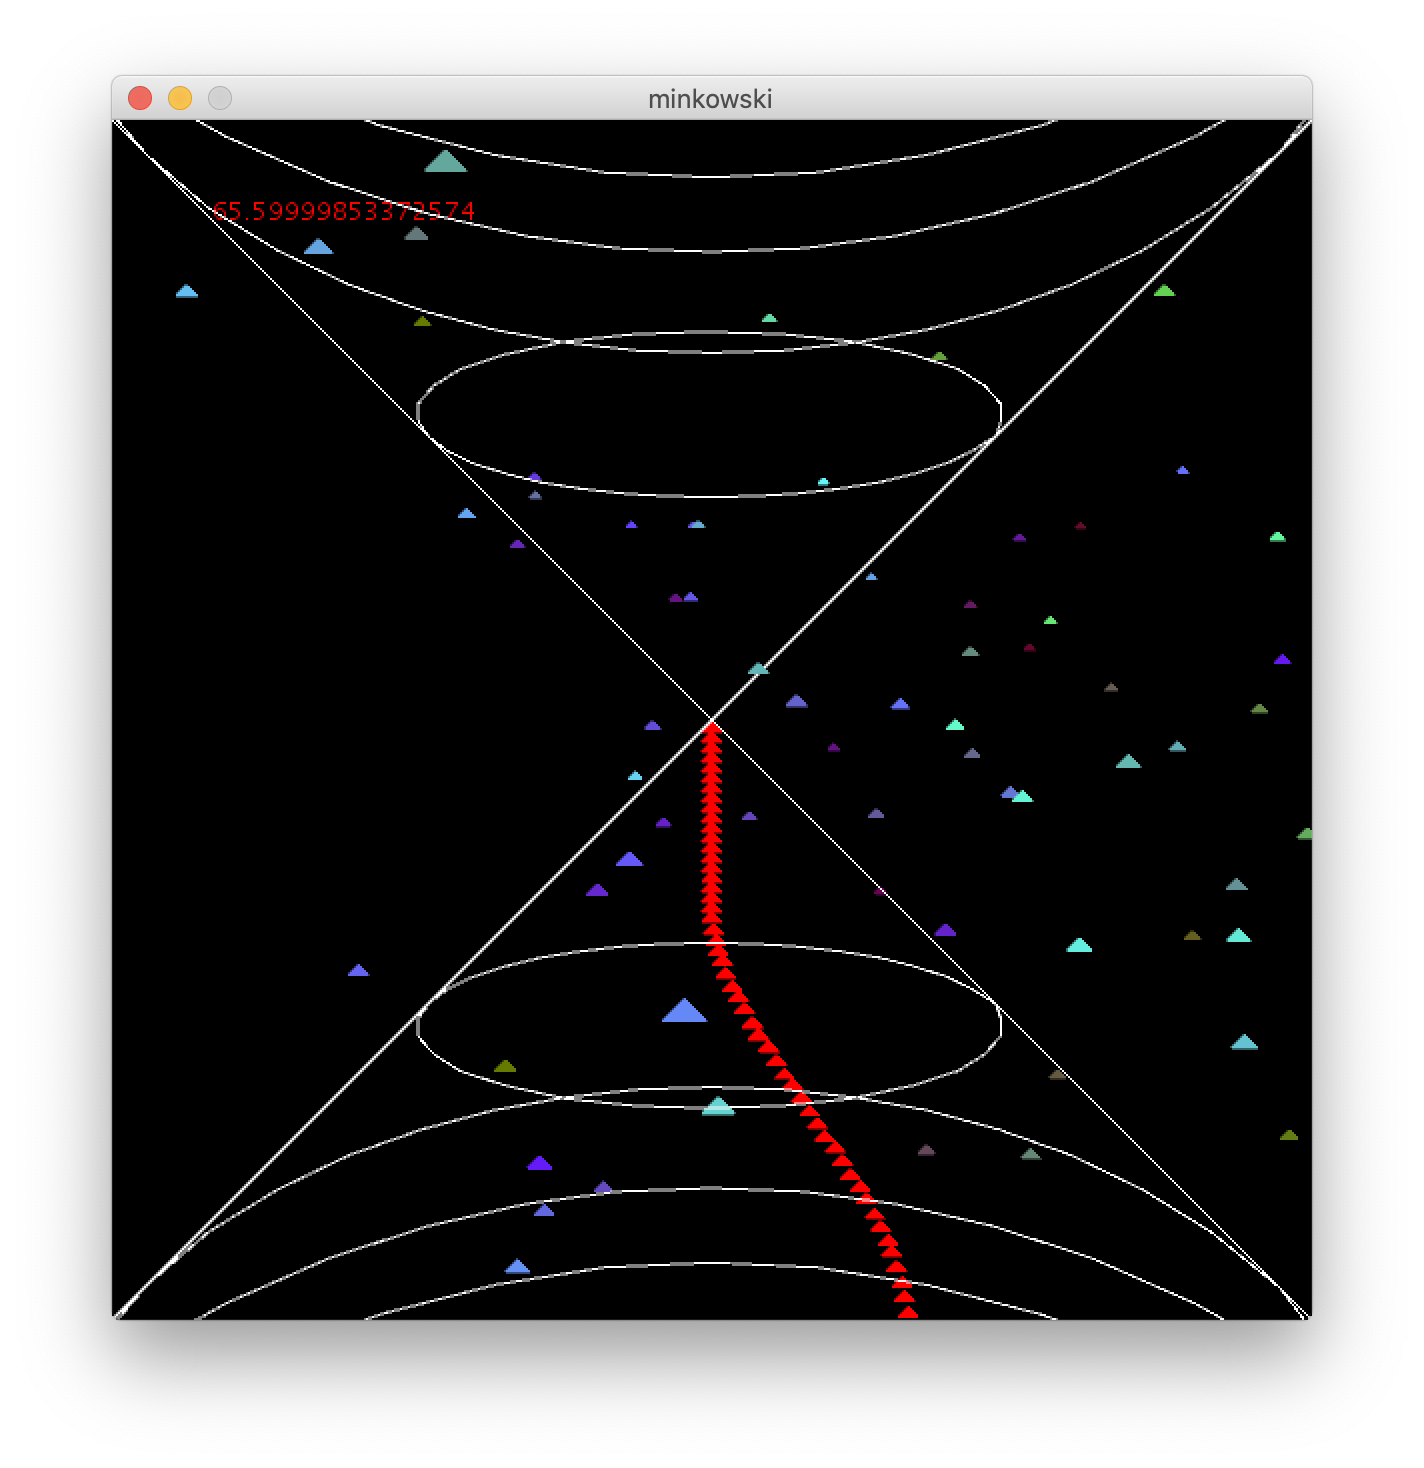
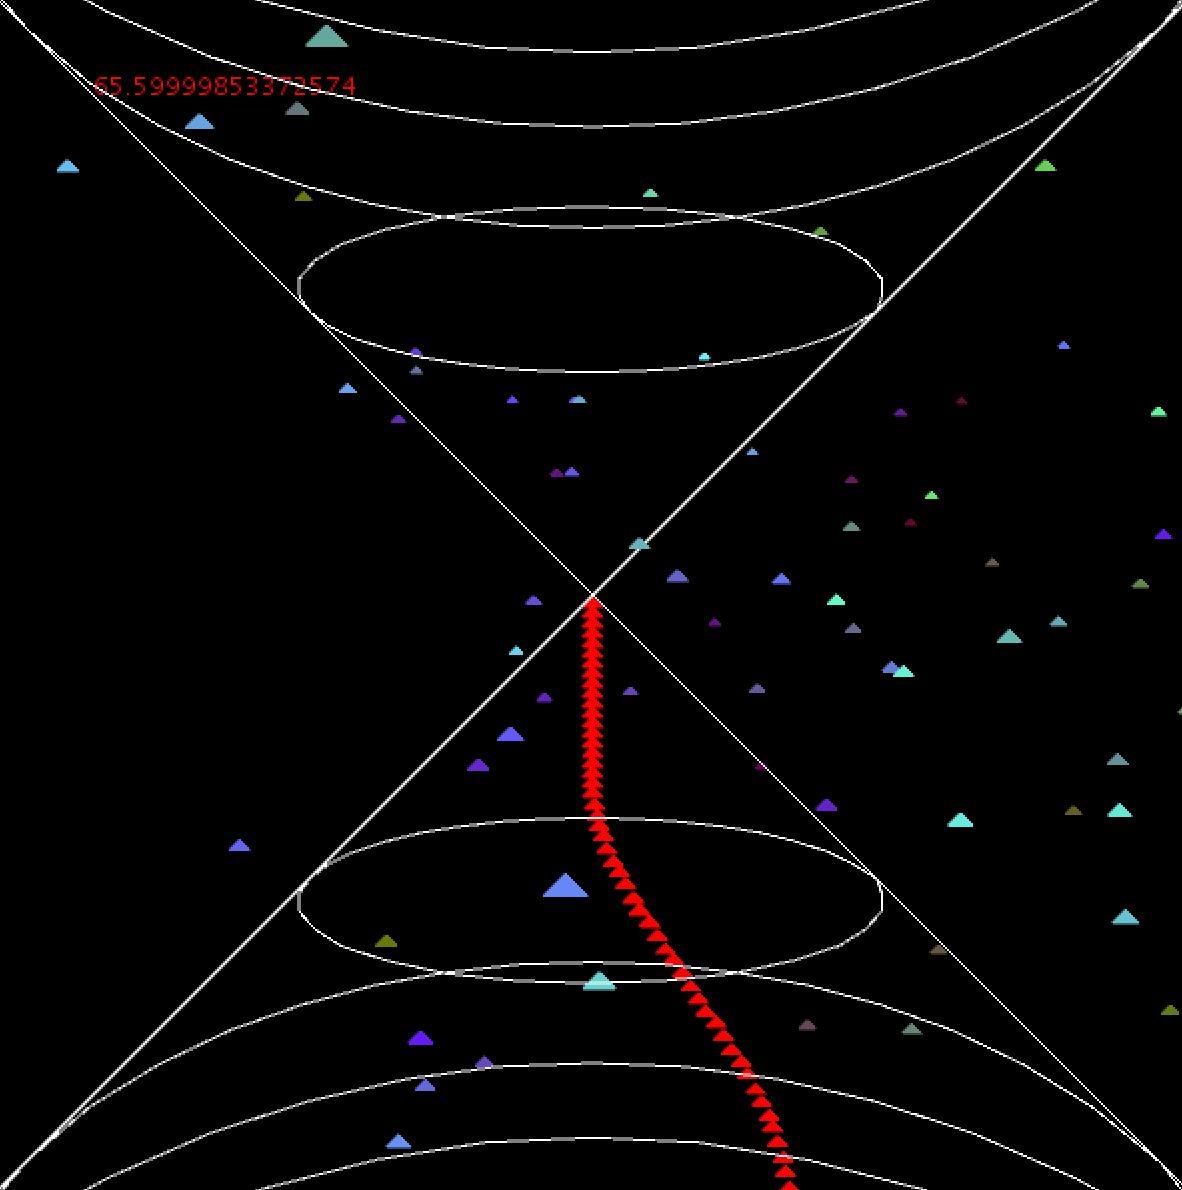
updated readmes

diff --git a/xymodel/README.md b/xymodel/README.md
@@ -1,6 +1,6 @@
 # xymodel
 
-![screenshot](screenshot1) ![screenshot](screenshot2)
+<img src="https://raw.githubusercontent.com/akuczala/processing-sketches/master/xymodel/xy-screenshot.png" width="400"> <img src="https://raw.githubusercontent.com/akuczala/processing-sketches/master/xymodel/vortex-screenshot.png" width="400">
 
 Simulation of the [classical XY model](https://en.wikipedia.org/wiki/Classical_XY_model) on a square lattice. Witness the [Kosterlitz-Thouless transition](https://en.wikipedia.org/wiki/Kosterlitz–Thouless_transition)! Has a thermal (Monte Carlo) mode, and a deterministic mode. The rotor angle is displayed as a hue.
 
@@ -15,7 +15,3 @@ Simulation of the [classical XY model](https://en.wikipedia.org/wiki/Classical_X
 - <kbd>I</kbd>/<kbd>K</kbd> Raise / lower temperature (thermal mode)
 - <kbd>T</kbd>/<kbd>G</kbd> Double / halve time step (deterministic mode)
 - <kbd>X</kbd>/<kbd>Z</kbd> Adjust choice of gauge
-
-[screenshot1]: https://github.com/akuczala/processing-sketches/xymodel/xy-screenshot.png "screenshot"
-
-[screenshot2]: https://github.com/akuczala/processing-sketches/xymodel/vortex-screenshot.png "screenshot"

diff --git a/drawNetwork/README.md b/drawNetwork/README.md
@@ -1,6 +1,6 @@
 # drawNetwork
 
-![alt text](screenshot)
+<img src="https://raw.githubusercontent.com/akuczala/processing-sketches/master/drawNetwork/network-screenshot.png" width="400">
 
 GUI tool for constructing and viewing tensor networks. Used for constructing (1+1) dimensional networks in the [MERA repo](www.github.com/akuczala/MERA/MERA-1D).
 
@@ -26,5 +26,3 @@ GUI tool for constructing and viewing tensor networks. Used for constructing (1+
 		- line 1: tensor names: `{<t1>,<t2>,<t3>...}`
 		- line 2: list of links, i.e: `{[1,2,3],[4,5,6]}`
 		- line 3: tensor positions: `100,200:300,400`
-
-[screenshot]: https://github.com/akuczala/processing-sketches/drawNetwork/network-screenshot.png "screenshot"

diff --git a/spectrumSpiral/README.md b/spectrumSpiral/README.md
@@ -1,6 +1,6 @@
 # spectrumSpiral
 
-![alt text](screenshot)
+<img src="https://raw.githubusercontent.com/akuczala/processing-sketches/master/spectrumSpiral/spiral-screenshot.png" width="400">
 
 Visualization of the acoustic spectrum mapped to a spiral that makes one turn per octave. This reveals interesting harmonic features in music.
 
@@ -16,5 +16,3 @@ Includes example audio files.
 - <kbd>L</kbd> Load audio file
 
 Clicking the mouse anywhere between the left and right edges of the window will seek the audio file proportionally.
-
-[screenshot]: https://github.com/akuczala/processing-sketches/spectrumSpiral/spiral-screenshot.png "screenshot"

diff --git a/minkowski/README.md b/minkowski/README.md
@@ -1,6 +1,6 @@
 # Minkowski
 
-![alt text](screenshot)
+<img src="https://raw.githubusercontent.com/akuczala/processing-sketches/master/minkowski/minkowski-screenshot.png" width="400">
 
 Visualization of a worldline through 2+1 Minkowski space.
 
@@ -9,5 +9,3 @@ Visualization of a worldline through 2+1 Minkowski space.
 - <kbd>W</kbd>/<kbd>S</kbd> Boost right/left
 - <kbd>A</kbd>/<kbd>D</kbd> Rotate
 - <kbd>Q</kbd>/<kbd>E</kbd> Boost forward/back
-
-[screenshot]: https://github.com/akuczala/processing-sketches/minkowski/minkowski-screenshot.png "screenshot"

diff --git a/colorSpaceTest/README.md b/colorSpaceTest/README.md
@@ -1,5 +1,3 @@
 # colorSpaceTest
 
-![alt text](screenshot)
-
-[screenshot]: https://github.com/akuczala/processing-sketches/drawNetwork/color-screenshot.png "screenshot"
+<img src="https://raw.githubusercontent.com/akuczala/processing-sketches/master/clorSpaceTest/color-screenshot.png" width="400">
